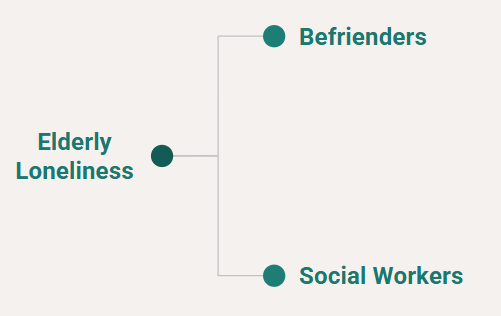
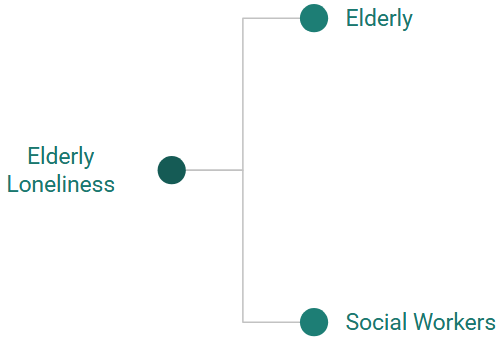
Fix: Changes from thusi and jon from befriender to elderly

Changed region(s): [[0.3, 0.0, 0.99, 0.9968], [0.0, 0.3987, 0.27, 0.5696]]

diff --git a/index.html b/index.html
@@ -460,7 +460,7 @@
             In the discovery phase, we reviewed existing policies and programmes on elderly social isolation, identified gaps, then conducted stakeholder interviews (academics, social workers, community partners) and card-sorting activities with elderly participants. This stage established the current ecosystem, pain points, and opportunity areas.
           </p>
           <p>
-            In the definition phase, we focused on two key stakeholders (the befrienders and social workers). We synthesised the qualitative data into user needs and problem statements, which act as criteria against which concepts are later evaluated.
+            In the definition phase, we focused on two key stakeholders (the elderly and social workers). We synthesised the qualitative data into user needs and problem statements, which act as criteria against which concepts are later evaluated.
           </p>
           <p>
             In the development phase, these criteria guided us to generate multiple concept directions and filtered them against feasibility and alignment with identified needs. Concepts that did not address critical needs were deprioritised.
@@ -571,10 +571,10 @@
           <h3>2.4. Synthesis of Data</h3> 
           <image-component tag="fig-8" source="assets/figure/f8.png" subtitle="Figure 8: Two-pronged Approach" style="max-width: 300px;"></image-component>
           <p>
-            Drawing on our primary and secondary research, we adopt a two-pronged approach centred on befrienders and social workers, who have the greatest influence on socially isolated elderly in our stakeholder map. 
+            Drawing on our primary and secondary research, we adopt a two-pronged approach centred on the elderly and social workers who have one of the greatest influence on socially isolated elderly in our stakeholder map. 
           </p>
           <p>
-            First, we aim to strengthen the befriender model: given persistent manpower shortages, current schemes cannot reliably provide sustained companionship, so we propose leveraging technology to complement befrienders and reduce reliance on scarce volunteers.
+            First, we aim to strengthen the befriender model for the elderly: given persistent manpower shortages, current schemes cannot reliably provide sustained companionship, so we propose leveraging technology to complement befrienders and reduce reliance on scarce volunteers.
           </p>
           <p>
             Second, we empower social workers to deliver more timely, personalised support. Heavy caseloads and administrative burden constrain service quality. Hence, by streamlining workflows and providing decision support, social workers can devote more time to high-value interactions that help seniors reconnect with the community.
